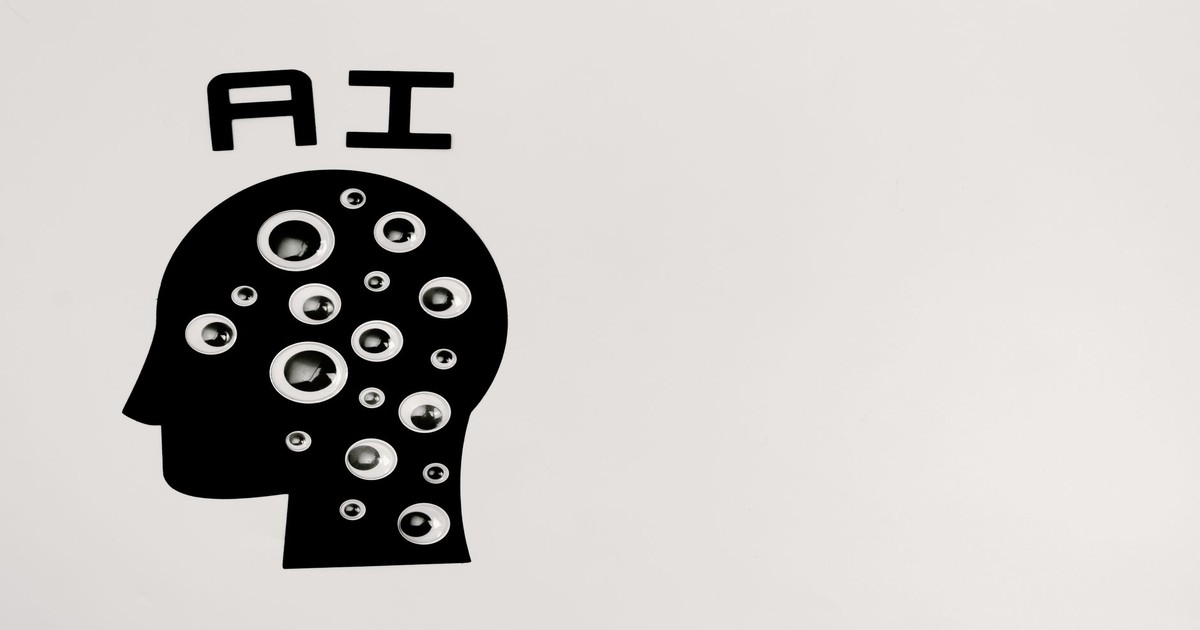
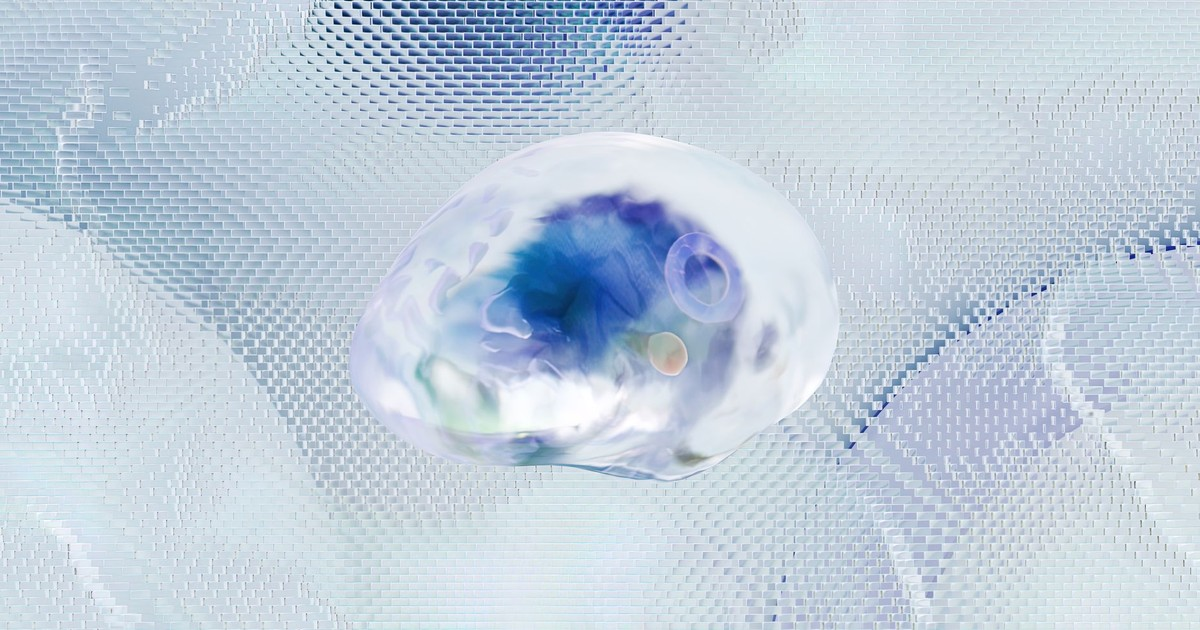
fix(#029): replace duplicate cover image with unique Pexels photo

diff --git a/agents/maya.py b/agents/maya.py
@@ -166,12 +166,16 @@ def _save_header_image(tmp_path, dest_rel: str):
     Path(tmp_path).unlink(missing_ok=True)
 
 
-def _fetch_stock_images(spec: dict, primary_path: str, alt_path: str):
+def _fetch_stock_images(spec: dict, primary_path: str, alt_path: str,
+                         exclude_hashes: set = None):
     """
     Source 2 header images from Pexels (free stock photography) based on the
     article's category + mood, then resize + save them to primary_path (used
     as the article cover) and alt_path (saved alternate). Same "grab 2, use 1,
     save 1" contract as generation — only the acquisition method differs.
+
+    exclude_hashes: MD5 hashes of all existing covers. Any downloaded photo
+    whose hash matches is skipped so we never silently reuse an existing image.
 
     Requires PEXELS_API_KEY in agents/.env (free key: https://www.pexels.com/api/).
     Raises on any failure so the caller can fall back to stub placeholders.
@@ -197,11 +201,11 @@ def _fetch_stock_images(spec: dict, primary_path: str, alt_path: str):
         "(KHTML, like Gecko) Chrome/120.0.0.0 Safari/537.36"
     )
 
-    # Pull a small pool so the primary and alt are visually distinct.
+    # Pull a large pool — the default 15 is too small when we skip duplicates.
     params = urllib.parse.urlencode({
         "query": query,
         "orientation": "landscape",
-        "per_page": 15,
+        "per_page": 30,
         "size": "large",
     })
     req = urllib.request.Request(
@@ -216,22 +220,48 @@ def _fetch_stock_images(spec: dict, primary_path: str, alt_path: str):
         raise RuntimeError(f"[maya] Pexels search failed ({exc.code}): {body}") from exc
 
     photos = data.get("photos") or []
-    if len(photos) < 2:
+    if not photos:
         raise RuntimeError(
-            f"[maya] Pexels returned <2 photos for query '{query}' — cannot fill primary + alt"
+            f"[maya] Pexels returned no photos for query '{query}'"
         )
 
-    # Primary = top hit; alt = the next distinct photo in the pool.
-    for i, (photo, dest) in enumerate(zip([photos[0], photos[1]], [primary_path, alt_path])):
+    # Iterate pool in order, skipping any photo whose downloaded image hash
+    # matches an existing cover. This prevents Pexels returning the same top
+    # result for similar-category articles across different runs.
+    import hashlib as _hashlib
+    selected: list = []   # list of (photo_meta, tmp_path)
+    for photo in photos:
+        if len(selected) >= 2:
+            break
         src = photo.get("src", {})
         img_url = src.get("large2x") or src.get("large") or src.get("original")
         if not img_url:
-            raise RuntimeError(f"[maya] Pexels photo {photo.get('id')} has no usable src URL")
-        tmp_path = REPO_ROOT / f"_maya_stock_tmp_{i}.jpg"
+            continue
+        idx = len(selected)
+        tmp_path = REPO_ROOT / f"_maya_stock_tmp_{idx}.jpg"
         dl = urllib.request.Request(img_url, headers={"User-Agent": ua})
         with urllib.request.urlopen(dl, timeout=60) as r, open(tmp_path, "wb") as fh:
             fh.write(r.read())
-        _save_header_image(tmp_path, dest)
+        if exclude_hashes:
+            h = _hashlib.md5(Path(tmp_path).read_bytes()).hexdigest()
+            if h in exclude_hashes:
+                log.warning(
+                    f"[maya] Pexels photo {photo.get('id')} matches an existing cover "
+                    f"— skipping (hash {h[:8]})"
+                )
+                Path(tmp_path).unlink(missing_ok=True)
+                continue
+        selected.append((photo, tmp_path))
+
+    if len(selected) < 2:
+        raise RuntimeError(
+            f"[maya] Could not find 2 non-duplicate photos from Pexels pool "
+            f"of {len(photos)} for query '{query}'"
+        )
+
+    for i, (photo, tmp) in enumerate(selected):
+        dest = primary_path if i == 0 else alt_path
+        _save_header_image(tmp, dest)
         log.info(
             f"[maya] stock image #{i} from Pexels (photo id {photo.get('id')}, "
             f"query '{query}') -> {dest}"
@@ -305,24 +335,30 @@ def run(article_path: str, spec: dict) -> str:
             _alt_full.exists()     and _alt_full.stat().st_size > 1024
         )
 
-    def _is_duplicate_of_prev() -> bool:
-        """True if primary image is byte-for-byte identical to the previous article's cover."""
-        import hashlib, glob as _glob
-        prev = sorted(_glob.glob(str(REPO_ROOT / f"img/articles/aima-{number-1:03d}-*.jpg")))
-        if not prev:
+    def _is_any_duplicate() -> bool:
+        """True if primary image is byte-for-byte identical to ANY existing article cover."""
+        import hashlib
+        if not _primary_full.exists() or _primary_full.stat().st_size <= 1024:
             return False
-        cur_hash  = hashlib.md5(_primary_full.read_bytes()).hexdigest()
-        prev_hash = hashlib.md5(Path(prev[-1]).read_bytes()).hexdigest()
-        return cur_hash == prev_hash
+        cur_hash = hashlib.md5(_primary_full.read_bytes()).hexdigest()
+        for p in sorted((REPO_ROOT / "img/articles").glob("aima-*.jpg")):
+            if p.resolve() == _primary_full.resolve():
+                continue  # skip self
+            if hashlib.md5(p.read_bytes()).hexdigest() == cur_hash:
+                log.warning(f"[maya] primary image is a duplicate of {p.name} — forcing regeneration")
+                return True
+        return False
 
-    if _both_ready() and not _is_duplicate_of_prev():
+    if _both_ready() and not _is_any_duplicate():
         log.info("[maya] real images already on disk — skipping generation")
     else:
         if _both_ready():
-            log.warning(
-                f"[maya] primary image is identical to article #{number-1:03d} cover "
-                "— forcing regeneration"
-            )
+            # Remove the duplicate so _both_ready() goes False below and
+            # generation actually runs. Without this, _both_ready() stays True
+            # after the handoff check and generation is silently skipped.
+            log.warning("[maya] wiping duplicate image files before regeneration")
+            _primary_full.unlink(missing_ok=True)
+            _alt_full.unlink(missing_ok=True)
         # Reuse anything the Maya batch pre-staged in handoff/ready/ before paying
         # for generation.
         if _pickup_from_handoff(number, og_image, alt_image):
@@ -332,8 +368,14 @@ def run(article_path: str, spec: dict) -> str:
             log.info("[maya] images ready (canonical/handoff) — skipping generation")
         elif os.environ.get("PEXELS_API_KEY"):
             log.info("[maya] sourcing stock header images via Pexels")
+            import hashlib as _hlib
+            existing_hashes = {
+                _hlib.md5(p.read_bytes()).hexdigest()
+                for p in (REPO_ROOT / "img/articles").glob("aima-*.jpg")
+                if p.stat().st_size > 1024
+            }
             try:
-                _fetch_stock_images(spec, og_image, alt_image)
+                _fetch_stock_images(spec, og_image, alt_image, exclude_hashes=existing_hashes)
             except Exception as exc:
                 log.warning(f"[maya] stock fetch failed ({exc}) — using stub placeholders")
                 _generate_images_stub(spec, og_image, alt_image)

diff --git a/fix_029_image.py b/fix_029_image.py
@@ -1,0 +1,71 @@
+"""
+One-shot script: fetch a fresh, non-duplicate Pexels image for article #029
+and update the live article + git push.
+
+Run from the aima repo root:
+    python fix_029_image.py
+"""
+import hashlib
+import os
+import subprocess
+import sys
+from pathlib import Path
+
+# ── Load .env ─────────────────────────────────────────────────────────────────
+env_file = Path("agents/.env")
+for line in env_file.read_text().splitlines():
+    line = line.strip()
+    if line and not line.startswith("#") and "=" in line:
+        k, v = line.split("=", 1)
+        os.environ.setdefault(k.strip(), v.strip())
+
+sys.path.insert(0, str(Path(__file__).parent))
+from agents.maya import _fetch_stock_images, _save_header_image
+from agents.base import REPO_ROOT
+
+PRIMARY = "img/articles/aima-029-the-lab-that-runs-itself.jpg"
+ALT     = "img/alt-img/aima-029-the-lab-that-runs-itself-alt.jpg"
+ARTICLE = "articles/aima-article-the-lab-that-runs-itself-029.html"
+
+# ── Build exclusion set (all covers EXCEPT #029) ──────────────────────────────
+base = REPO_ROOT / "img/articles"
+existing_hashes: dict[str, str] = {}   # hash → filename
+for p in base.glob("aima-*.jpg"):
+    if "029" not in p.name:
+        h = hashlib.md5(p.read_bytes()).hexdigest()
+        existing_hashes[h] = p.name
+
+print(f"Excluding {len(existing_hashes)} existing cover hashes")
+
+# ── Fetch a fresh non-duplicate image ────────────────────────────────────────
+spec = {"category": "AI Science", "mood": "analytical", "slug": "the-lab-that-runs-itself"}
+print("Fetching replacement image from Pexels…")
+_fetch_stock_images(spec, PRIMARY, ALT, exclude_hashes=set(existing_hashes.keys()))
+
+new_hash = hashlib.md5((REPO_ROOT / PRIMARY).read_bytes()).hexdigest()
+print(f"New primary hash: {new_hash[:8]}")
+if new_hash in existing_hashes:
+    print(f"ERROR: still a duplicate of {existing_hashes[new_hash]}")
+    sys.exit(1)
+print("✓ Image is unique")
+
+# ── Update og:image URL in the article HTML ───────────────────────────────────
+article_path = REPO_ROOT / ARTICLE
+html = article_path.read_text(encoding="utf-8")
+
+# The image path in URLs is the same slug-based name — no URL change needed
+# since we're replacing the file in-place. But verify og:image is wired correctly.
+img_filename = Path(PRIMARY).name
+if img_filename not in html:
+    print(f"WARNING: {img_filename} not found in article HTML — og:image may need manual update")
+else:
+    print(f"✓ og:image already references {img_filename}")
+
+# ── Stage + push ──────────────────────────────────────────────────────────────
+files = [PRIMARY, ALT, ARTICLE]
+subprocess.run(["git", "add"] + files, cwd=REPO_ROOT, check=True)
+subprocess.run(["git", "commit", "-m",
+    "fix(maya): replace duplicate #029 cover image (was identical to #026)"],
+    cwd=REPO_ROOT, check=True)
+subprocess.run(["git", "push", "origin", "main"], cwd=REPO_ROOT, check=True)
+print("✓ Pushed — aima.productions will update within ~60s")
